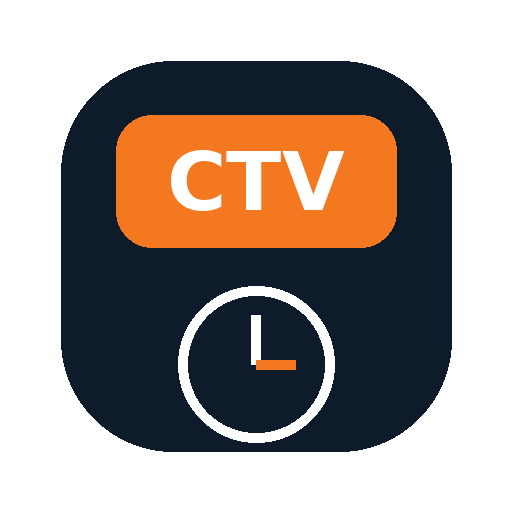
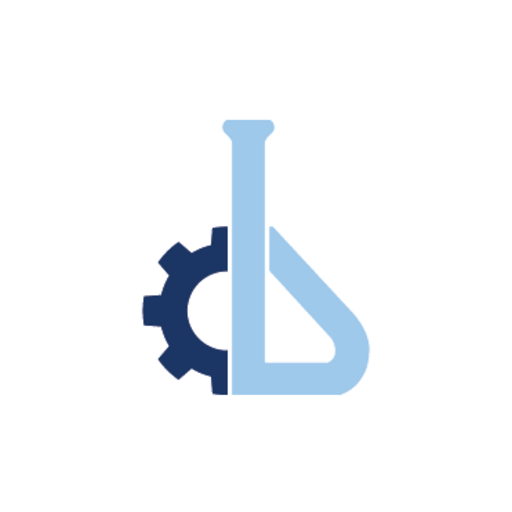
PWA: ícones Benetech e remover transporte da impressão RDO (#46)
* PWA: substituir ícones pelo logo Benetech

- Substitui icon-192.png, icon-512.png, icon-512-maskable.png e
  apple-touch-icon.png pelo ícone Benetech (engrenagem + tubo)
- Fundo branco, maskable com safe zone de 20%
- Bump cache v46

Claude-Session: https://claude.ai/code/session_014b1KjoEasUg4KucjXWBnps

* RDO: remover seção transporte da impressão

- Remove tabela "Gestão de horários — transporte" do relatório
  impresso/compartilhado (controle interno, não relevante para o cliente)
- Seção permanece disponível na interface do app
- Bump cache v47

Claude-Session: https://claude.ai/code/session_014b1KjoEasUg4KucjXWBnps

---------

diff --git a/rdo_ctv.html b/rdo_ctv.html
@@ -902,7 +902,6 @@ function gerarPDF() {
   html += tbl('Tempos parados (aguard. liberação)', ['Início','Fim','Motivo','Área/Equip.','Liberado por'], (r.paradas||[]).map(x => [x.inicio,x.fim,x.motivo,x.area,x.liberado]));
   html += tbl('Atividades executadas', ['Início','Fim','Descrição','Local/Equip.','Obs.'], (r.atividades||[]).map(x => [x.inicio,x.fim,x.descricao,x.local,x.obs]));
   if (r.ocorrencias) html += `<h3>Ocorrências / observações gerais</h3><div class="obs">${escapeHtml(r.ocorrencias)}</div>`;
-  html += tbl('Gestão de horários — transporte', ['Nome','Hora Busca','Hora Deixa','Obs.'], (r.transporte||[]).map(x => [x.nome,x.busca,x.deixa,x.obs]));
   html += `<div class="assin">
     <div>${r.assBenetech ? `<img src="${r.assBenetech}">` : '<div style="height:70px"></div>'}<div class="ln">Responsável Técnico (Benetech)</div></div>
     <div>${r.assFiscal ? `<img src="${r.assFiscal}">` : '<div style="height:70px"></div>'}<div class="ln">Fiscal / Representante do Cliente</div></div>

diff --git a/service-worker.js b/service-worker.js
@@ -3,7 +3,7 @@
    atualização quando há rede) com fallback para o cache (offline).
    Demais assets = cache-first. Troque CACHE_VERSION ao publicar
    mudanças para forçar atualização nos aparelhos. */
-const CACHE_VERSION = 'ctv-campo-v45';
+const CACHE_VERSION = 'ctv-campo-v47';
 
 /* Caminhos relativos ao escopo do SW (funciona sob /vt-ctv/ no GitHub Pages) */
 const APP_SHELL = [
